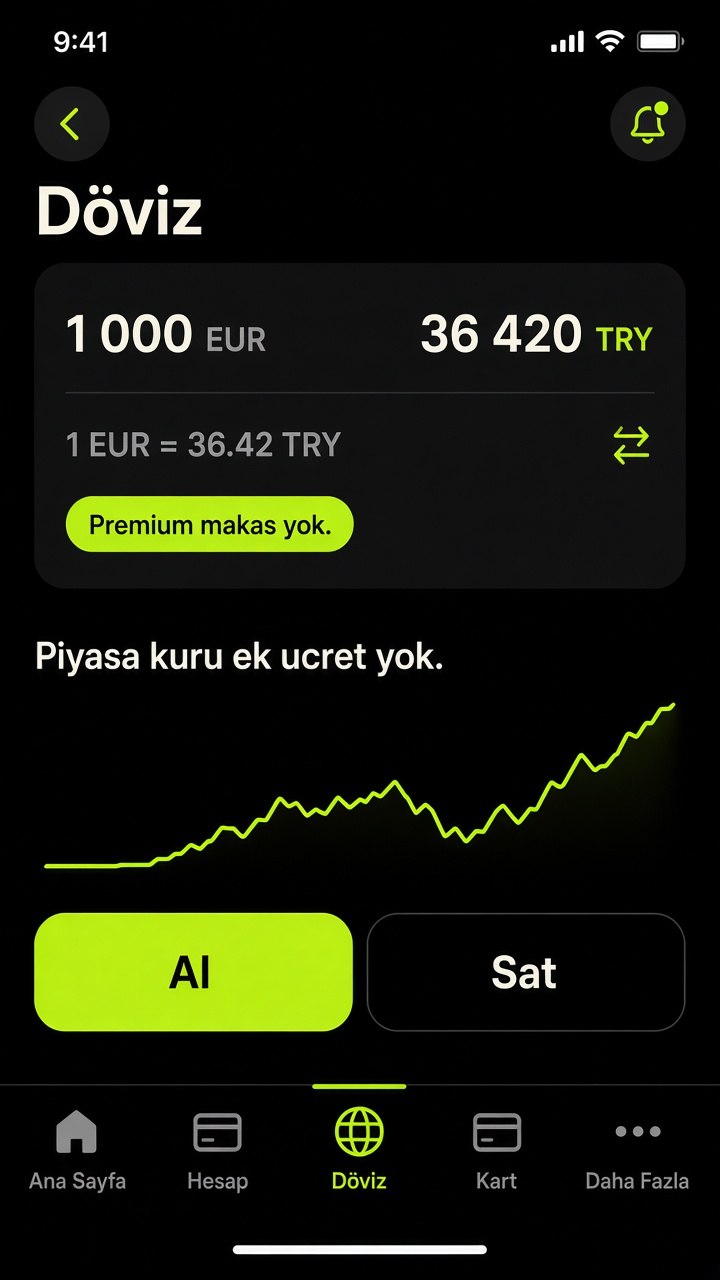
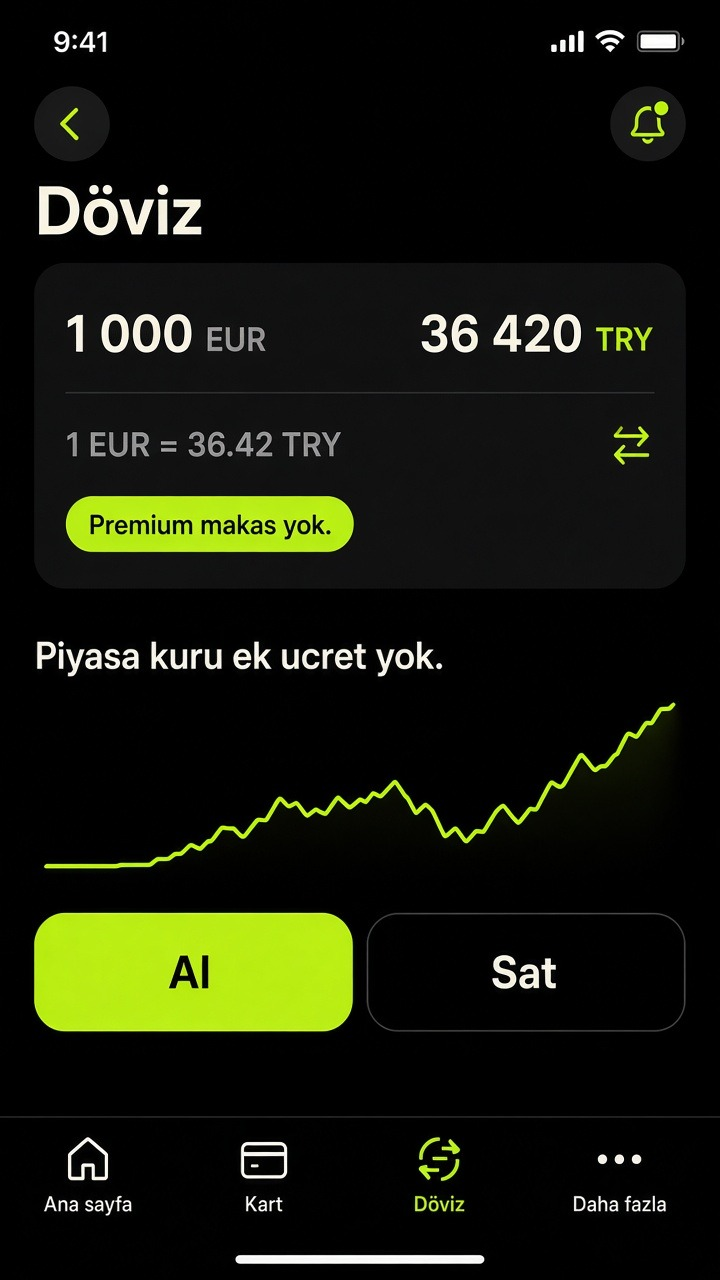
Fix landing copy collisions, rates, and plan perks.
Keep the free-start buttons on one line, drop GBP from the wallet mock and the rate bar, label the 500 EUR order as a sale, and price the 1.000.000 ₺ EUR example from the live rate. Plus and Premium cards now list the same Setur and Migros Sanal Market perks as the comparison table, and the Turkish banking label reads Birikim.

diff --git a/src/i18n/tr.ts b/src/i18n/tr.ts
@@ -13,7 +13,7 @@ export const tr: Messages = {
     campaigns: 'Kampanyalar',
     faq: 'SSS',
     seePlans: 'Paketleri gör',
-    openFree: 'Ücretsiz Başla (0 ₺)',
+    openFree: 'Ücretsiz Başla (0 ₺)',
     menu: 'Menü',
     back: 'Siteye dön',
     language: 'Dil',
@@ -34,7 +34,7 @@ export const tr: Messages = {
   },
   fx: {
     eyebrow: 'Anlık kur',
-    lead: 'USD, EUR, GBP ve CHF — TRY karşılığı. Makas Premium’da kapanır.',
+    lead: 'USD ve EUR — TRY karşılığı. Makas Premium’da kapanır.',
     error: 'Kurlar alınamadı',
   },
   plans: {
@@ -42,7 +42,7 @@ export const tr: Messages = {
     bannerTitle: 'Paran vadesizde uyumasın, kampanyalar seni yormasın.',
     bannerBody:
       'Boşta bakiye her gece otomatik faiz kazanır. E-ticarette peşin fiyatına taksit açılır; kampanyaya SMS ve taahhüt olmadan girersin.',
-    bannerCta: 'Ücretsiz Başla (0 ₺)',
+    bannerCta: 'Ücretsiz Başla (0 ₺)',
     upgradeTitle: 'İstersen paketi yükselt.',
     upgradeLead: 'Paketler isteğe bağlı. Aylık öde veya yıllıkta 2 ay bizden olsun; istediğin an iptal et.',
     waiverNote: 'Maaş taşıma veya bakiye sözüne paketler 0 ₺!',
@@ -54,7 +54,7 @@ export const tr: Messages = {
     perYear: '/yıl',
     featured: 'En çok seçilen',
     optional: 'İsteğe bağlı paket',
-    banking: 'Banka / Saving',
+    banking: 'Banka / Birikim',
     travel: 'Seyahat',
     brands: 'Marka işbirlikleri',
     addPlan: 'Bu paketi ekle',
@@ -91,13 +91,17 @@ export const tr: Messages = {
     standardCampaigns: ['Migros %2', 'Migros Sanal Market %2'],
     plusCampaigns: [
       'Migros %4',
+      'Migros Sanal Market %5',
       'Divan Pastanesi %10',
+      'Setur %5 tur',
       'Kampanyalara taahhütsüz otomatik katılım',
       'Chatbot’suz doğrudan müşteri temsilcisi',
     ],
     premiumCampaigns: [
       'Migros %7',
+      'Migros Sanal Market %8',
       'Divan Pastanesi %15',
+      'Setur %10 tur + otel',
       'Kampanyalara taahhütsüz otomatik katılım',
       'Chatbot’suz doğrudan temsilci & VIP şube sırası',
     ],
@@ -139,7 +143,8 @@ export const tr: Messages = {
     amountHint: 'Boşta duran bakiye · Temel hesap',
     overnight: 'Aylık gecelik faiz',
     fx: 'Aynı 1.000.000 ₺’yi EUR’ye çevirince',
-    fxHint: 'Piyasa kuru 36,42 TRY/EUR — 500 € örneğiyle aynı kur.',
+    fxHint: 'Canlı kur {rate} TRY/EUR. Telefon görseli örnek ekrandır.',
+    fxHintWait: 'Canlı EUR/TRY gelince tutarlar ona göre hesaplanır. Telefon görseli örnek ekrandır.',
     fee: 'Paket ücreti',
     rate: 'Gecelik',
     net: 'Aylık net',
@@ -149,8 +154,9 @@ export const tr: Messages = {
     stay: 'Ücretsiz hesap',
     pick: 'Bu paketi ekle',
     footStart: 'Premium, Temel hesaba göre her ay',
-    footMid: 'daha fazla net bırakır. Aynı bakiyeyi EUR’ye çevirince fark',
-    footEnd: 'bu işlemde — 500 € örneğindeki gibi makas kapanır.',
+    footNet: 'daha fazla net bırakır.',
+    footMid: 'Aynı bakiyeyi EUR’ye çevirince fark',
+    footEnd: 'bu işlemde.',
     sample: 'Örnek simülasyon; oranlar kurgusaldır.',
   },
   goldExample: {
@@ -199,7 +205,7 @@ export const tr: Messages = {
   lifestyle: {
     title: 'Hesabın hep ücretsiz. Paketler ise kazancını katlar.',
     lead: 'Temel hesap 0 ₺ kalır. Paket; gecelik faiz, taksit ve otomatik kampanyayı büyütür.',
-    bank: 'Banka / Saving',
+    bank: 'Banka / Birikim',
     bankTitle: 'Gecelik faiz, EFT, döviz',
     bankBody: 'Sınırsız 0 ₺ EFT/FAST, otomatik gecelik faiz ve dijital altın / eurobond.',
     camp: 'Kampanya',
@@ -246,7 +252,7 @@ export const tr: Messages = {
   cta: {
     title: 'Sürpriz aidat yok. Kazandıran paketler var.',
     body: 'Önce ücretsiz hesabını aç. Standard, Plus veya Premium kazancını büyütünce ekle — veya simülatörde dene.',
-    button: 'Ücretsiz Başla (0 ₺)',
+    button: 'Ücretsiz Başla (0 ₺)',
   },
   footer: {
     legal: '© 2026 AURE. Kurgusal ürün — gerçek bankacılık hizmeti sunmaz.',
@@ -270,9 +276,9 @@ export const tr: Messages = {
   compare: {
     kicker: 'Paketleri karşılaştır',
     title: 'Paketleri yan yana gör.',
-    lead: 'Saving, seyahat ve marka işbirlikleri. Her hücre net: var, yok veya tutar.',
+    lead: 'Birikim, seyahat ve marka işbirlikleri. Her hücre net: var, yok veya tutar.',
     choose: 'Seç',
-    groupBank: 'Banka / Saving',
+    groupBank: 'Banka / Birikim',
     groupTravel: 'Seyahat',
     groupBrand: 'Marka işbirlikleri',
     unlimited: 'Sınırsız',
@@ -352,7 +358,7 @@ export const tr: Messages = {
   signup: {
     close: 'Kapat',
     confirmEmail: 'E-postanı onayla',
-    openAccount: 'Ücretsiz Başla (0 ₺)',
+    openAccount: 'Ücretsiz Başla (0 ₺)',
     addPlan: '{name} paketini ekle',
     accountLead: 'Kayıt e-posta onayından sonra waitlist’e düşer. Adını ve e-postanı bırak.',
     planLead: 'Adını ve e-postanı bırak. Onay linki veya kod gelmeden talep listeye yazılmaz.',

diff --git a/src/i18n/en.ts b/src/i18n/en.ts
@@ -13,7 +13,7 @@ export const en: Messages = {
     campaigns: 'Offers',
     faq: 'FAQ',
     seePlans: 'See plans',
-    openFree: 'Start free (0 ₺)',
+    openFree: 'Start free (0 ₺)',
     menu: 'Menu',
     back: 'Back to site',
     language: 'Language',
@@ -34,7 +34,7 @@ export const en: Messages = {
   },
   fx: {
     eyebrow: 'Live rates',
-    lead: 'USD, EUR, GBP and CHF vs TRY. The spread closes on Premium.',
+    lead: 'USD and EUR vs TRY. The spread closes on Premium.',
     error: 'Rates unavailable',
   },
   plans: {
@@ -42,7 +42,7 @@ export const en: Messages = {
     bannerTitle: 'Don’t let cash sleep in a current account, or chase offers by hand.',
     bannerBody:
       'Idle balance earns overnight interest automatically. E-commerce unlocks instalments at the cash price; offers opt you in with no SMS and no commitment.',
-    bannerCta: 'Start free (0 ₺)',
+    bannerCta: 'Start free (0 ₺)',
     upgradeTitle: 'Upgrade the plan if you want.',
     upgradeLead: 'Plans are optional. Pay monthly, or get two months free on yearly — cancel any time.',
     waiverNote: 'Salary in or a balance pledge makes plans 0 ₺!',
@@ -91,13 +91,17 @@ export const en: Messages = {
     standardCampaigns: ['Migros 2%', 'Migros Sanal Market 2%'],
     plusCampaigns: [
       'Migros 4%',
+      'Migros Sanal Market 5%',
       'Divan Pastanesi 10%',
+      'Setur 5% tours',
       'Auto opt-in to offers, no lock-in',
       'Human support, no chatbot gate',
     ],
     premiumCampaigns: [
       'Migros 7%',
+      'Migros Sanal Market 8%',
       'Divan Pastanesi 15%',
+      'Setur 10% tours + hotels',
       'Auto opt-in to offers, no lock-in',
       'Human support and VIP branch priority',
     ],
@@ -139,7 +143,8 @@ export const en: Messages = {
     amountHint: 'Idle cash · Basic account',
     overnight: 'Monthly overnight interest',
     fx: 'Convert the same 1,000,000 ₺ to EUR',
-    fxHint: 'Mid-market 36.42 TRY/EUR — the same rate as the 500 € example.',
+    fxHint: 'Live rate {rate} TRY/EUR. The phone screen is a sample.',
+    fxHintWait: 'Amounts follow the live EUR/TRY rate once it loads. The phone screen is a sample.',
     fee: 'Plan fee',
     rate: 'Overnight',
     net: 'Net / month',
@@ -149,8 +154,9 @@ export const en: Messages = {
     stay: 'Free account',
     pick: 'Add this plan',
     footStart: 'Premium leaves',
-    footMid: 'more net each month vs Basic. Converting the same balance to EUR, the gap is',
-    footEnd: 'on that trade — the spread closes, just like the 500 € sale.',
+    footNet: 'more net each month vs Basic.',
+    footMid: 'Converting the same balance to EUR, the gap is',
+    footEnd: 'on that trade.',
     sample: 'Sample figures; rates are fictional.',
   },
   goldExample: {
@@ -246,7 +252,7 @@ export const en: Messages = {
   cta: {
     title: 'No surprise fees. Plans that pay you back.',
     body: 'Open the free account first. Add Standard, Plus or Premium when the simulator says it pays — or just when you want more.',
-    button: 'Start free (0 ₺)',
+    button: 'Start free (0 ₺)',
   },
   footer: {
     legal: '© 2026 AURE. A fictional product — it does not provide real banking services.',
@@ -352,7 +358,7 @@ export const en: Messages = {
   signup: {
     close: 'Close',
     confirmEmail: 'Confirm your email',
-    openAccount: 'Start free (0 ₺)',
+    openAccount: 'Start free (0 ₺)',
     addPlan: 'Add {name}',
     accountLead: 'You join the waitlist after email confirmation. Leave your name and email.',
     planLead: 'Leave your name and email. The request stays off the list until you use the link or code.',

diff --git a/src/IdleExample.tsx b/src/IdleExample.tsx
@@ -1,8 +1,7 @@
 import { useMemo } from 'react'
 import { useI18n } from './i18n/LocaleContext.tsx'
-import { formatEur, formatMoney, formatRate } from './i18n/format.ts'
+import { formatEur, formatFx, formatMoney, formatRate } from './i18n/format.ts'
 import {
-  SAMPLE_EUR_TRY,
   SAMPLE_IDLE_TRY,
   fxFeeByColumn,
   monthlyFeeOf,
@@ -16,19 +15,19 @@ function isPlanId(id: PlanColumnId): id is PlanId {
   return id !== 'account'
 }
 
-export default function IdleExample({ onPick }: { onPick: (id: PlanId) => void }) {
+export default function IdleExample({ onPick, eurTry }: { onPick: (id: PlanId) => void; eurTry: number }) {
   const { t, locale } = useI18n()
   const idle = SAMPLE_IDLE_TRY
-  const market = SAMPLE_EUR_TRY
+  const market = eurTry > 0 ? eurTry : 0
 
   const rows = useMemo(() => {
     const baseNet = (idle * overnightByColumn.account) / 12 - monthlyFeeOf('account')
-    const baseEur = idle / (market * (1 + fxFeeByColumn.account))
+    const baseEur = market ? idle / (market * (1 + fxFeeByColumn.account)) : 0
     return planColumns.map((col) => {
       const interest = (idle * overnightByColumn[col.id]) / 12
       const fee = monthlyFeeOf(col.id)
       const net = interest - fee
-      const eur = idle / (market * (1 + fxFeeByColumn[col.id]))
+      const eur = market ? idle / (market * (1 + fxFeeByColumn[col.id])) : 0
       return {
         id: col.id,
         interest,
@@ -119,7 +118,9 @@ export default function IdleExample({ onPick }: { onPick: (id: PlanId) => void }
         </div>
 
         <p className="idle-label">{t.idleExample.fx}</p>
-        <p className="idle-fx-hint">{t.idleExample.fxHint}</p>
+        <p className="idle-fx-hint">
+          {market ? t.idleExample.fxHint.replace('{rate}', formatFx(market, locale)) : t.idleExample.fxHintWait}
+        </p>
         <div className="idle-grid idle-fx">
           {rows.map((row) => (
             <article key={`fx-${row.id}`} className={`idle-card ${row.id === 'premium' ? 'featured' : ''} ${row.id === 'account' ? 'base' : ''}`}>
@@ -134,9 +135,9 @@ export default function IdleExample({ onPick }: { onPick: (id: PlanId) => void }
               </dl>
               <p className="idle-net">
                 <span>{t.idleExample.eur}</span>
-                <strong>{formatEur(row.eur, locale)}</strong>
+                <strong>{market ? formatEur(row.eur, locale) : '—'}</strong>
               </p>
-              {row.id !== 'account' && (
+              {market > 0 && row.id !== 'account' && (
                 <p className="idle-delta">
                   +{formatEur(row.eurExtra, locale)} · +{formatMoney(row.tryExtra, locale)} {t.idleExample.more}
                 </p>
@@ -147,8 +148,13 @@ export default function IdleExample({ onPick }: { onPick: (id: PlanId) => void }
 
         <p className="idle-foot">
           <span aria-hidden="true">✓</span>
-          {t.idleExample.footStart} {formatMoney(premium.extra, locale)} {t.idleExample.footMid}{' '}
-          {formatMoney(premium.tryExtra, locale)} {t.idleExample.footEnd}
+          {t.idleExample.footStart} {formatMoney(premium.extra, locale)} {t.idleExample.footNet}
+          {market > 0 && (
+            <>
+              {' '}
+              {t.idleExample.footMid} {formatMoney(premium.tryExtra, locale)} {t.idleExample.footEnd}
+            </>
+          )}
         </p>
         <p className="idle-sample">{t.idleExample.sample}</p>
       </div>

diff --git a/src/App.tsx b/src/App.tsx
@@ -13,7 +13,7 @@ import { type PlanId, type SignupIntent } from './waitlist'
 
 type Cycle = 'monthly' | 'yearly'
 
-const fxBases = ['USD', 'EUR', 'GBP', 'CHF'] as const
+const fxBases = ['USD', 'EUR'] as const
 
 type FxQuote = { base: string; quote: string; rate: number }
 
@@ -419,7 +419,7 @@ export default function App() {
                     src={withBase('app/aure-app-wallets.jpg')}
                     alt={t.app.walletsAlt}
                   />
-                  <div className="phone-overlay">
+                  <div className="phone-overlay dock">
                     <span className="phone-chip">{t.app.walletsGold}</span>
                     <span className="phone-toast">
                       <strong>{t.app.walletsInterest}</strong>
@@ -458,7 +458,7 @@ export default function App() {
                 </figcaption>
               </figure>
             </div>
-            <IdleExample onPick={openPlan} />
+            <IdleExample onPick={openPlan} eurTry={fx.find((row) => row.base === 'EUR')?.rate ?? 0} />
             <GoldExample onPick={openPlan} />
           </div>
         </section>

diff --git a/src/index.css b/src/index.css
@@ -416,7 +416,7 @@ h3 {
 
 .fx-grid {
   display: grid;
-  grid-template-columns: repeat(4, 1fr);
+  grid-template-columns: repeat(2, minmax(0, 280px));
   gap: 12px;
 }
 
@@ -567,6 +567,12 @@ h3 {
   margin: 0;
   max-width: 560px;
   color: #b7b3aa;
+}
+
+.account-banner .btn,
+.cta-band .btn {
+  white-space: nowrap;
+  flex-shrink: 0;
 }
 
 .simulator {
@@ -1036,6 +1042,7 @@ th.center {
   background: #1a1a1e;
   border: 1px solid var(--line);
   box-shadow: var(--shadow);
+  overflow: hidden;
 }
 
 .phone-overlay {
@@ -1045,6 +1052,24 @@ th.center {
   flex-direction: column;
   gap: 8px;
   pointer-events: none;
+}
+
+.phone-overlay.dock {
+  inset: auto 12px 16% 12px;
+  gap: 3px;
+}
+
+.phone-overlay.dock .phone-chip,
+.phone-overlay.dock .phone-toast {
+  padding: 3px 8px;
+  font-size: 10px;
+  line-height: 1.2;
+  white-space: nowrap;
+}
+
+.phone-overlay.dock .phone-toast strong {
+  display: block;
+  margin: 0;
 }
 
 .phone-chip,

diff --git a/src/plans.ts b/src/plans.ts
@@ -51,9 +51,8 @@ export const planColumns: { id: PlanColumnId; name: string; price: string }[] = 
   { id: 'premium', name: 'Premium', price: '499 ₺/ay' },
 ]
 
-/** Worked example: idle cash on a Basic account, same FX mid-rate as the 500 EUR mock. */
+/** Worked example: idle cash on a Basic account. The EUR leg uses the live rate. */
 export const SAMPLE_IDLE_TRY = 1_000_000
-export const SAMPLE_EUR_TRY = 36.42
 
 export const overnightByColumn: Record<PlanColumnId, number> = {
   account: 0.32,

diff --git a/src/i18n/types.ts b/src/i18n/types.ts
@@ -107,6 +107,7 @@ export type Messages = {
     overnight: string
     fx: string
     fxHint: string
+    fxHintWait: string
     fee: string
     rate: string
     net: string
@@ -116,6 +117,7 @@ export type Messages = {
     stay: string
     pick: string
     footStart: string
+    footNet: string
     footMid: string
     footEnd: string
     sample: string
